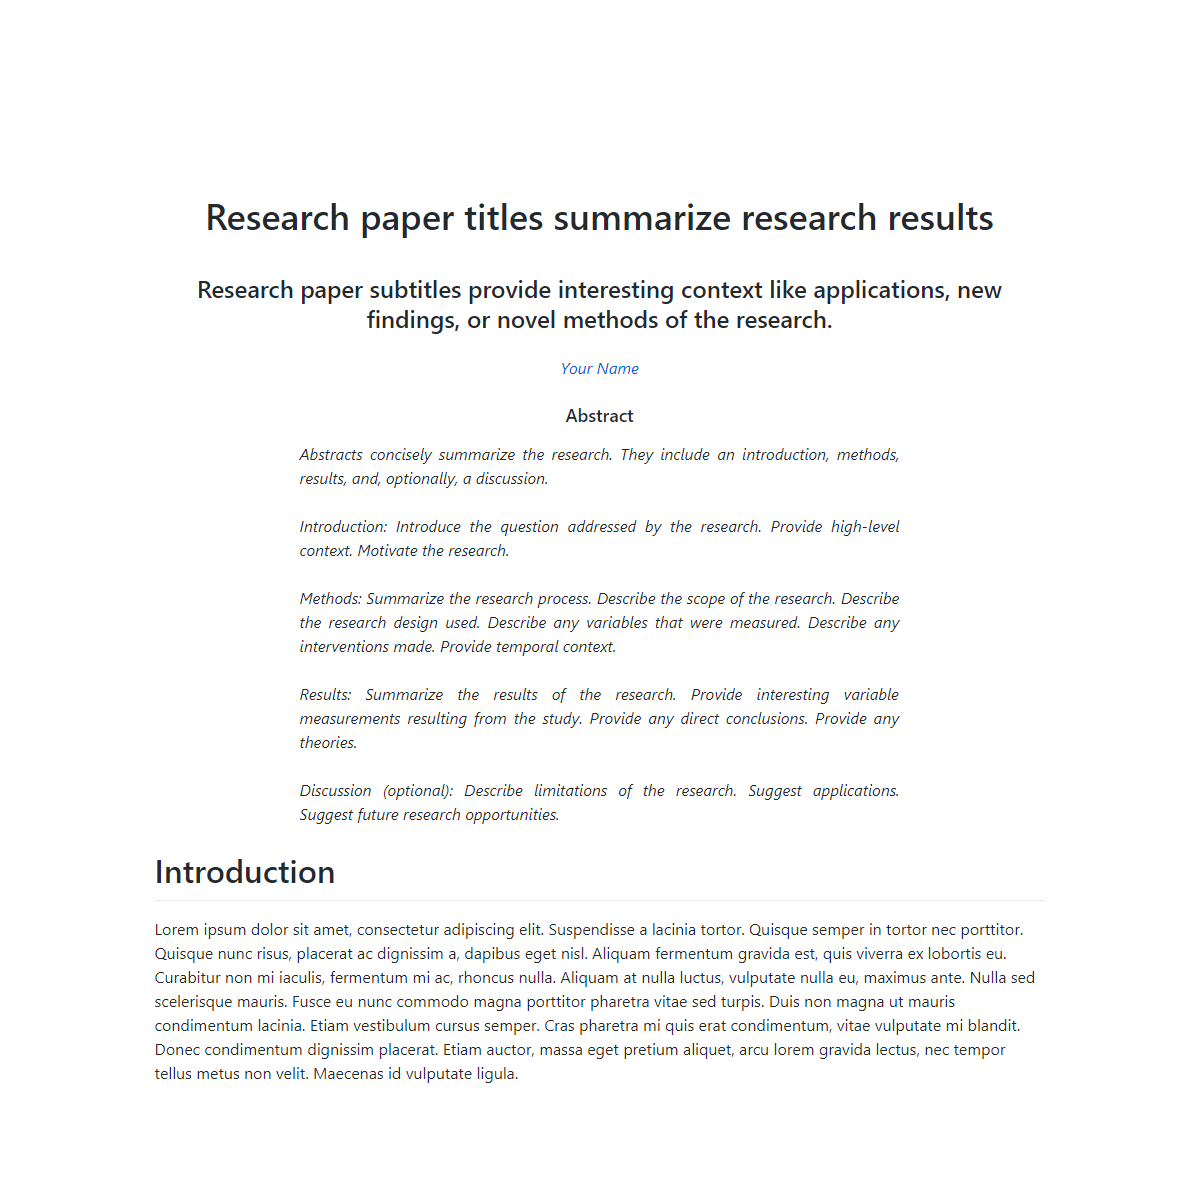
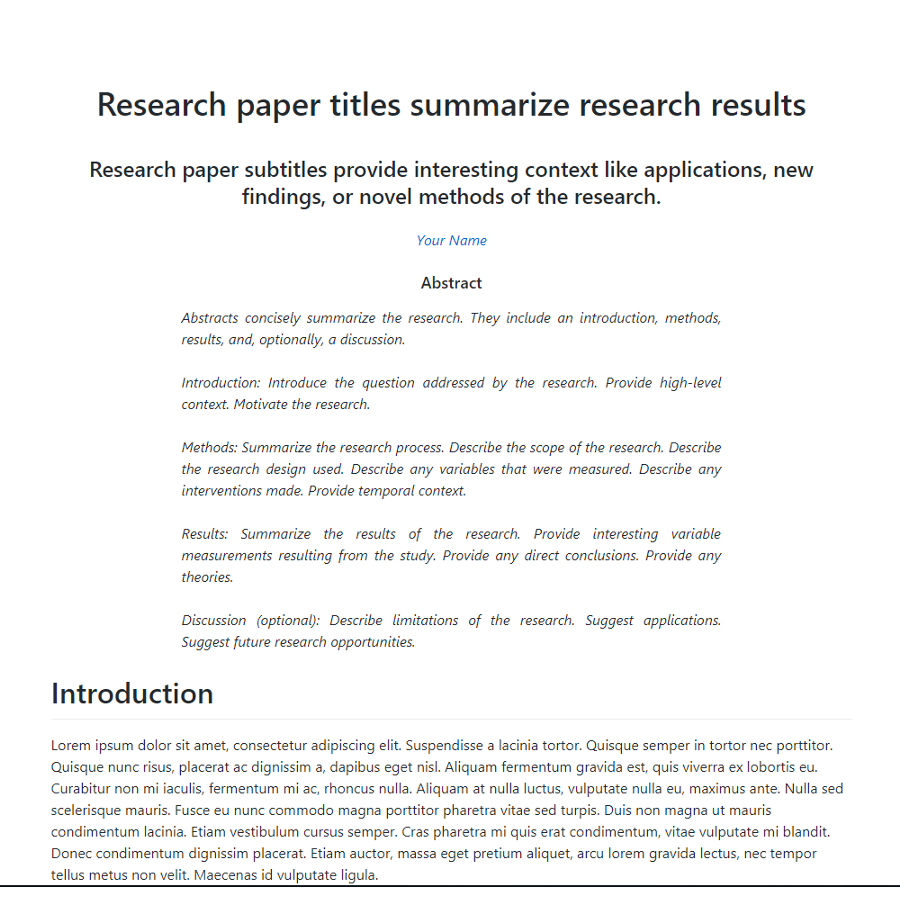
rc2
- Rescale example image
 - Prep version as 0.1.0
 - Update docs

Changed region(s): [[0.0933, 0.0933, 0.9022, 0.6533], [0.0311, 0.6533, 0.9333, 0.9956]]

diff --git a/readme.md b/readme.md
@@ -4,11 +4,11 @@
 
 ## Demo
 
-[![thumbnail](https://github.com/schol-js/schol-template-default/blob/master/media/example.png?size=200)](https://schol-js.github.io/schol-template-default)
+[![thumbnail](https://github.com/schol-js/schol-template-default/blob/master/media/example.png)](https://schol-js.github.io/schol-template-default)
 
 ## Usage
 
-Use this to get started writing a research paper, or as a starting point for writing a new template.
+Use this schol template to get started writing a research paper. You can also use this template a starting point for developing new templates.
 
 ### Research Paper
 
@@ -38,21 +38,21 @@ A few things to keep in mind:
 
  - Anything placed in `src/` will be copied to the `src/` folder of any schol project initialized with the template.
 
- - Documents within `src/` will be processed as EJS templates when initialized by `schol init`. One value will always be provided to these templates: the current `date`, in YYYY-MM-DD format
+ - Documents within `src/` will be processed as EJS templates when initialized by `schol init`. The current `date` will always be provided to these templates in YYYY-MM-DD format.
 
  - Test and develop your template by running the following from within your template directory:
 
-  ```sh
-  npm link
-  npm link schol-template-default // Or whatever your template is
-  schol edit -p
-  ```
+   ```sh
+   npm link
+   npm link schol-template-default // Or whatever your template is
+   schol edit -p
+   ```
   
-  This will use the current directory (your template directory) as the template, and will run your  `src/` files through EJS to inject the date before further processing.
+   This will use the current directory (your template directory) as the template, and will run your  `src/` files through EJS to inject the date before further processing.
 
  - Include example output of your template in the `docs` folder with `schol render -p` and [set up your GitHub repository to publish from the `docs/` folder in your template project.](https://help.github.com/articles/configuring-a-publishing-source-for-github-pages/#publishing-your-github-pages-site-from-a-docs-folder-on-your-master-branch). This will allow users to see what your template looks like before they use it.
 
- - Include a screenshot of your template output in `media/example.png`. Use a square aspect ratio.
+ - Include a screenshot of your template output in `media/example.png`. Use a square aspect ratio with a resolution of at least 898x898.
 
  - Once published to npm and GitHub, add your template to the [schol templates list](https://github.com/schol-js/schol/wiki/templates)!
 
